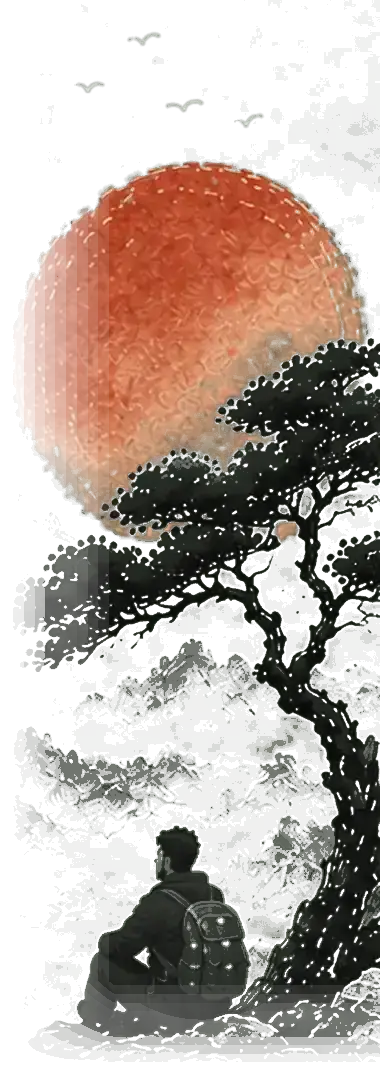
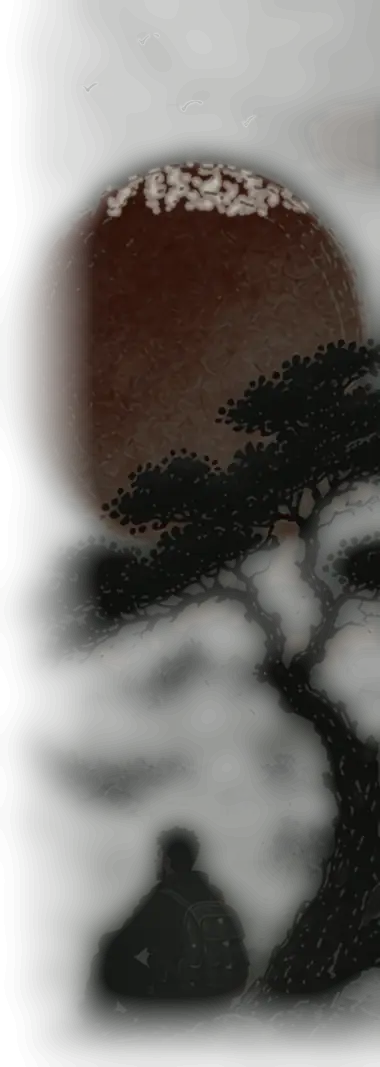
The man is a silhouette at night, not an outline of one
He is drawn dark against a light sheet, and the night cut had been
lifting his ink instead of dimming the sheet -- which inverts him. A
picture rendered in the wrong polarity traces its own edges: between
his dark hair and the darkened sky sat a band of anti-aliased
mid-tones that neither side could pull down, so it read as a contour
drawn around his head. The same lift raised every pale speck on the
rock and the foliage, and those are the marks reported from the phone.

So the night cut is now one monotone tone curve over the whole
picture, taken from what a daylight reader actually sees. Dark stays
darkest, light stays lightest, and no value in between can come out
brighter than both its neighbours -- the rim cannot exist. He reads
as a silhouette against a faint moonlit wash, the way he does by day.

The sun keeps its own shape and warmth: keying it on saturation alone
punched holes through its pale blossoms, so it is found as a filled
body and given the same kind of curve.

diff --git a/how-this-was-made/index.html b/how-this-was-made/index.html
@@ -1599,7 +1599,7 @@ a:active,button:active{opacity:.72}
 <div class="cf-num"><b>72</b><span>checks before a push</span></div>
 <div class="cf-num"><b>15</b><span>github workflows</span></div>
 <div class="cf-num"><b>66,655</b><span>lines behind it</span></div>
-<div class="cf-num"><b>2,143</b><span>commits</span></div>
+<div class="cf-num"><b>2,145</b><span>commits</span></div>
 </div>
 <h2 id="journey">What happens when I publish</h2>
 <p class="cf-note">A post is a file. Everything a reader sees is built from it, which means the pages can always be thrown away and made again &mdash; and are, on every publish. Here is the whole trip a post takes, from the file to your screen.</p>

diff --git a/connect/index.html b/connect/index.html
@@ -902,7 +902,7 @@ a { color: inherit; text-decoration: none; -webkit-tap-highlight-color: transpar
      the dusk file keeps the ink and the sun and lets the wash go
      transparent -- same crop, same fades, same everything else. */
   [data-theme="dark"] .hero {
-    background-image: url("/connect/ink-scene-dusk.webp?v=39d8f292");
+    background-image: url("/connect/ink-scene-dusk.webp?v=1d847096");
     opacity: .96;
   }
   /* And the stamp, cut the same way: on paper it is a red block on cream,
